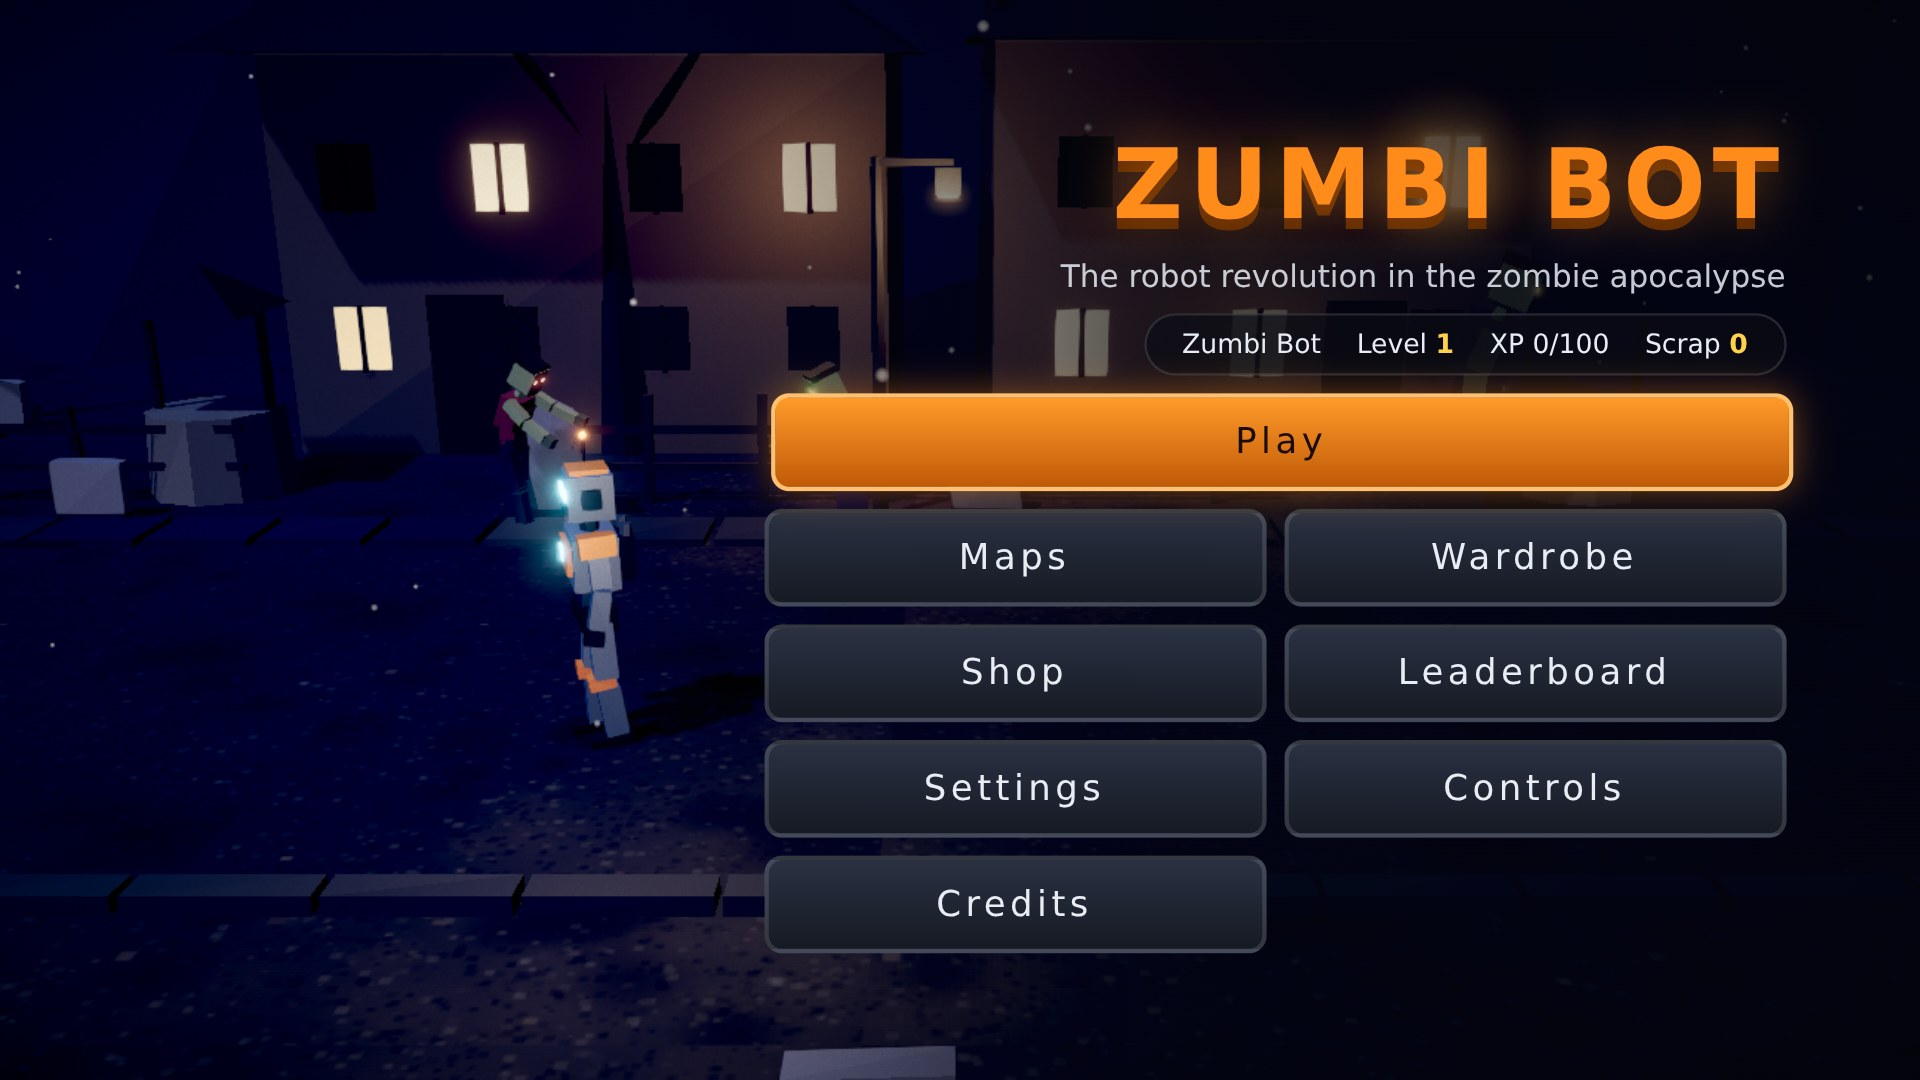
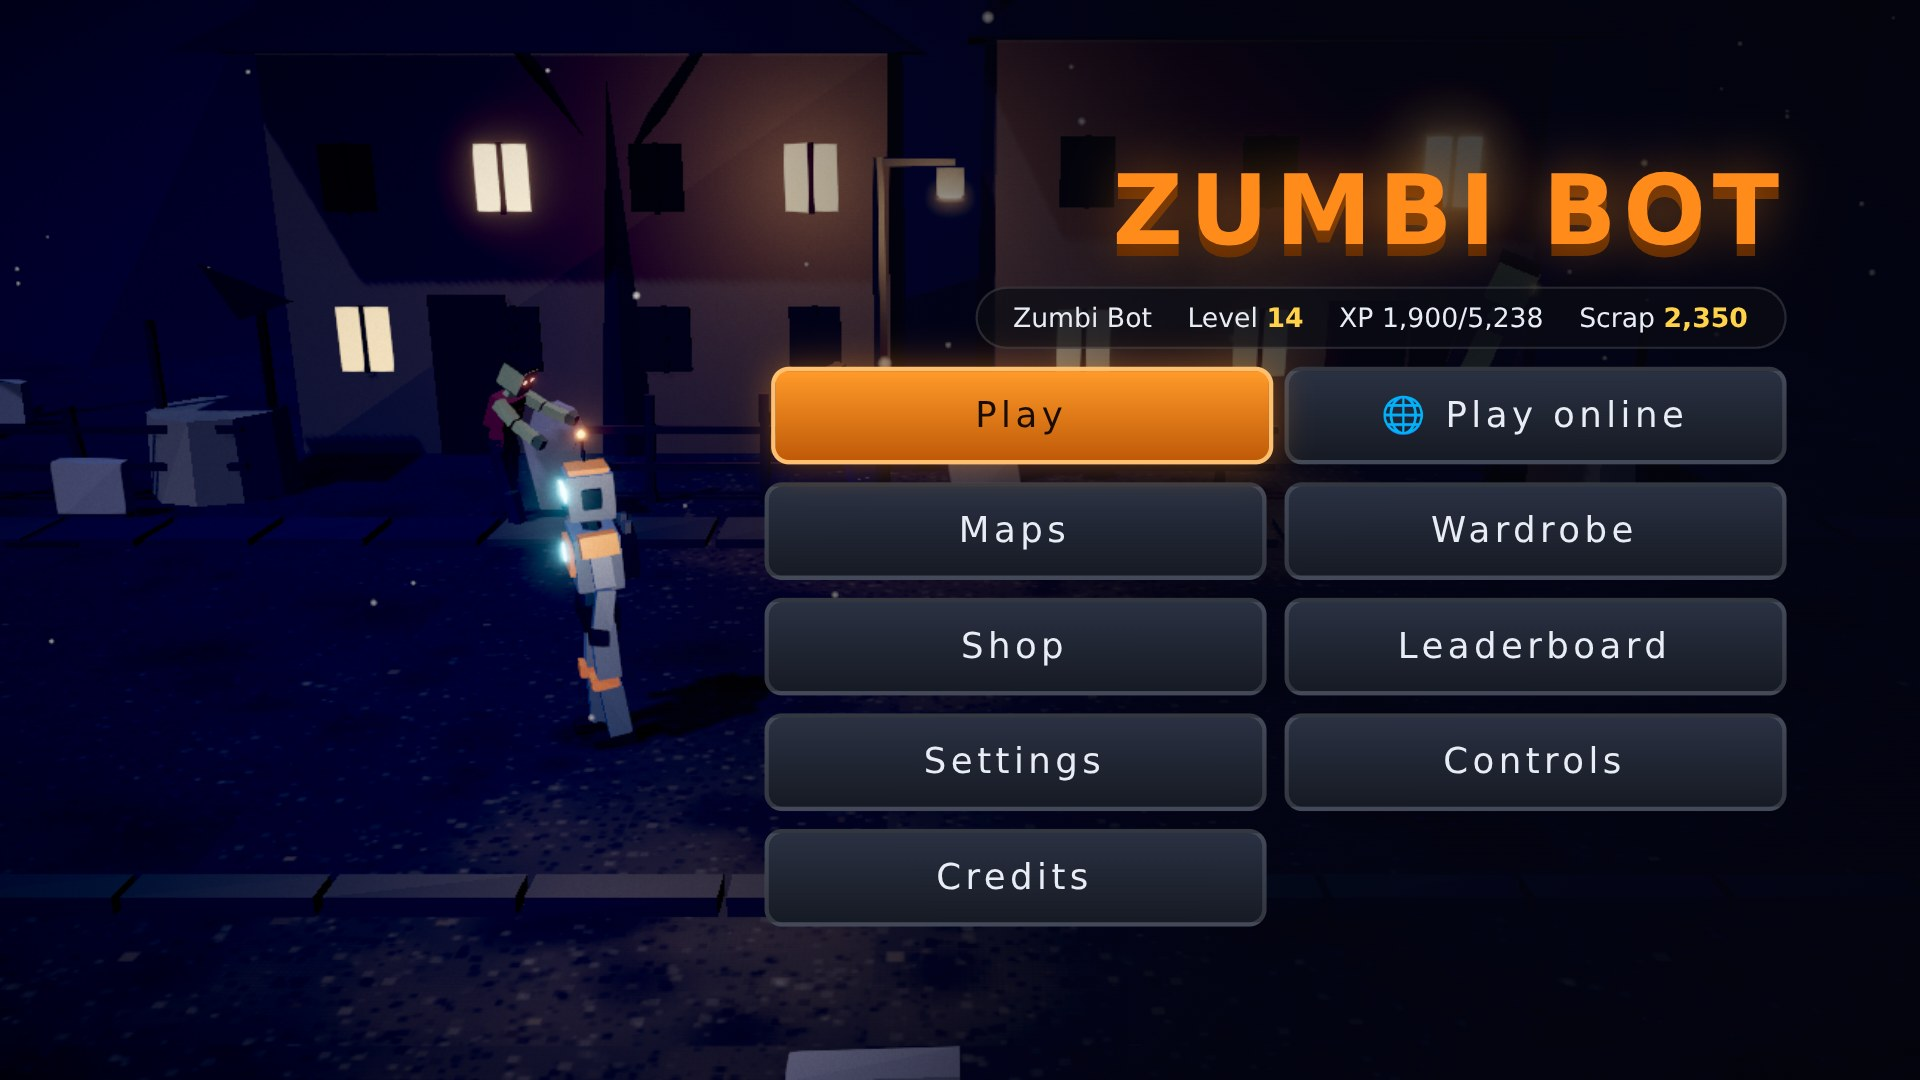
Versão 1.1: capturas novas da loja e script para gerá-las
- package.json 1.1.0 (o APK sai como 1.1.<execução>).
- scripts/store-shots.mjs + `npm run store:shots`: gera as capturas da
  Play Store (celular deitado, 1920×1080, pt e en) a partir do build do
  app: menu, equipe de 5, seleção de personagem, sala online, magia,
  chefe e robôs. Capturas antigas substituídas.
- README (controles com o mouse novo, teclas configuráveis, profundidade,
  comando das capturas) e listing da loja.

Claude-Session: https://claude.ai/code/session_01UwPcT8A5GZpY35VPbHnp73

diff --git a/README.md b/README.md
@@ -51,21 +51,28 @@ Web Audio.
 
 ## Controles
 
-| Ação                              | Teclado / mouse        | Gamepad            |
-| --------------------------------- | ---------------------- | ------------------ |
-| Mover (lados e profundidade)      | W A S D / setas        | analógico esquerdo |
-| Correr                            | Shift ou toque duplo   | L3                 |
-| Pular / pulo duplo                | Espaço                 | A                  |
-| Soco / arma branca / pegar item   | J                      | X                  |
-| Chute (correndo: voadora)         | K                      | Y                  |
-| Especial do personagem            | U ou J+K               | B                  |
-| Atirar / conjurar                 | botão esquerdo ou L    | RT                 |
-| Mirar (precisão e crítico)        | botão direito ou I     | LT                 |
-| Recarregar                        | R                      | D-pad ↓            |
-| Arma ou cajado anterior / próximo | Q / E ou roda do mouse | LB / RB            |
-| Modo arma de fogo / cajado        | 1 / 2                  | D-pad ↑            |
-| Mapa ampliado                     | M                      | Back               |
-| Pausa                             | Esc ou P               | Start              |
+| Ação                              | Teclado / mouse                        | Gamepad            |
+| --------------------------------- | -------------------------------------- | ------------------ |
+| Mover (lados e profundidade)      | W A S D / setas                        | analógico esquerdo |
+| Correr                            | Shift, toque duplo ou rodinha do mouse | L3                 |
+| Pular / pulo duplo                | Espaço                                 | A                  |
+| Soco / arma branca / pegar item   | J                                      | X                  |
+| Chute (correndo: voadora)         | K                                      | Y                  |
+| Especial do personagem            | botão direito do mouse, U ou J+K       | B                  |
+| Atirar / conjurar                 | botão esquerdo do mouse ou L           | RT                 |
+| Mirar (precisão e crítico)        | I                                      | LT                 |
+| Recarregar                        | R                                      | D-pad ↓            |
+| Arma ou cajado anterior / próximo | Q / E                                  | LB / RB            |
+| Modo arma de fogo / cajado        | 1 / 2                                  | D-pad ↑            |
+| Mapa ampliado                     | M                                      | Back               |
+| Pausa                             | Esc ou P                               | Start              |
+
+**Teclas do seu jeito:** em **Controles → Trocar teclas** (ou Configurações → Controles) cada ação pode ter duas
+teclas; clique numa tecla e aperte a nova (Esc cancela, Delete apaga, "Restaurar padrão" volta tudo). As dicas do
+jogo passam a mostrar as suas teclas. No mouse, girar a rodinha liga a corrida até você parar de andar (apertar a
+rodinha também corre).
+
+Andar para cima e para baixo (mudar de plano) tem na tela a mesma velocidade de andar para os lados.
 
 Combos: J, J, J, J termina em uppercut • J, J, K faz o chute giratório • correndo + K é a voadora • no ar,
 J e K atacam.
@@ -138,6 +145,7 @@ npm run dev        # servidor de desenvolvimento (http://localhost:5173/Zumbi-Bo
 npm run build      # build de produção em dist/
 npm run preview    # serve o build em http://localhost:4173/Zumbi-Bot/
 npm test           # testes unitários (Vitest), incluindo a campanha inteira com piloto automático
+npm run store:shots  # capturas de tela da Play Store (pt e en) em store/android/screenshots/
 npm run e2e        # testes ponta a ponta (Playwright + Chromium)
 npm run check      # typecheck + testes + build
 npm run build:app  # build do jogo para o app Android em dist-app/

diff --git a/store/android/listing.md b/store/android/listing.md
@@ -85,4 +85,8 @@ You can also play in the browser: marcelojaloto.github.io/Zumbi-Bot
 | `screenshots/pt-*.jpg`                             | Capturas de tela do celular (pt-BR), 1920×1080         |
 | `screenshots/en-*.jpg`                             | Phone screenshots (en-US), 1920×1080                   |
 
+Capturas (7 por idioma): menu, equipe de 5 personagens, seleção de personagem, sala online, magia, chefe e robôs.
+Para gerar de novo: `npm run store:shots`. / Screenshots (7 per language): menu, team of 5 characters, character
+select, online room, magic, boss and robots. To regenerate: `npm run store:shots`.
+
 As capturas também servem para tablets de 7" e 10". / The screenshots also work for 7" and 10" tablets.
